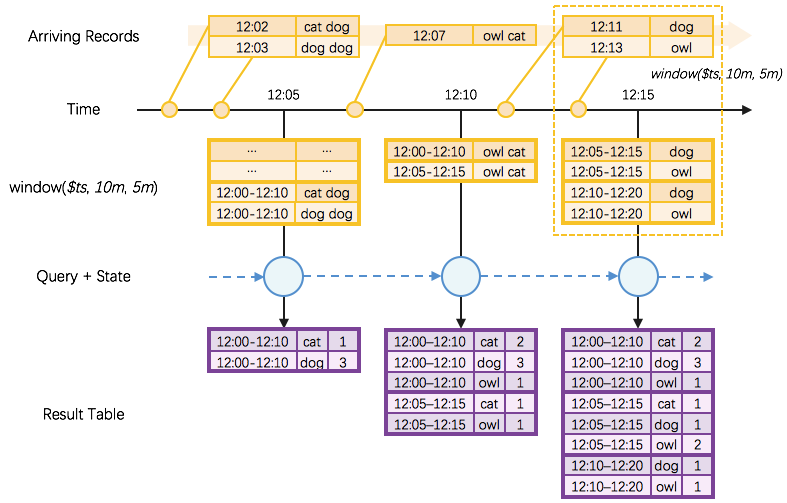
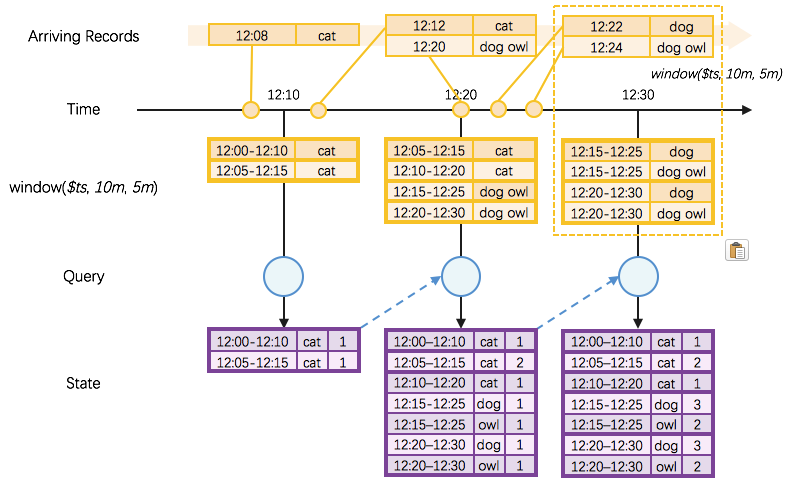
增加 Update 解析

diff --git a/Structured Streaming 源码解析系列/4.1 Structured Streaming 之 Event Time 解析.md b/Structured Streaming 源码解析系列/4.1 Structured Streaming 之 Event Time 解析.md
@@ -38,7 +38,7 @@ val windowedCounts = words.groupBy(
 
 - 我们有一系列 arriving 的 records
 - 首先是一个对着时间列 `timestamp` 做长度为`10m`，滑动为`5m` 的 *window()* 操作
-  - 例如下图右上角的虚框部分，当达到一条记录 `12:11|dog` 时，会将 `12:11` 归入两个窗口 `12:05-12:15`、`12:10-12:20`，所以产生两条记录：`12:05-12:15|dog`、`12:10-12:20|dog`，对于记录 `12:13|owl` 同理产生两条记录：`12:05-12:15|owl`、`12:10-12:20|owl`
+  - 例如上图右上角的虚框部分，当达到一条记录 `12:22|dog` 时，会将 `12:22` 归入两个窗口 `12:15-12:25`、`12:20-12:30`，所以产生两条记录：`12:15-12:25|dog`、`12:20-12:30|dog`，对于记录 `12:24|dog owl` 同理产生两条记录：`12:15-12:25|dog owl`、`12:20-12:30|dog owl`
   - 所以这里 *window()* 操作的本质是 *explode()*，可由一条数据产生多条数据
 - 然后对 *window()* 操作的结果，以 `window` 列和 `word` 列为 key，做 *groupBy().count()* 操作
   - 这个操作的聚合过程是增量的（借助 StateStore）
@@ -78,11 +78,19 @@ Append 的语义将保证，一旦输出了某条 key，未来就不会再输出
 
 #### (c) Update
 
-//TODO: Update this section as soon as `update` mode is officially released
+> 小节注：本节 Update 模式的相关内容适用于 ≥ Spark 2.1.1 版本 —— 官方已开发完成，但尚未正式发布
+
+<p align="center"><img src="4.imgs/230.png"></p>
+
+如上图所示，在 Update 模式中，只有本执行批次 State 中被更新了的条目会被输出：
+
+- 在 12:10 这个执行批次，State 中全部 2 条都是新增的（因而也都是被更新了的），所以输出全部 2 条；
+- 在 12:20 这个执行批次，State 中 2 条是被更新了的、 4 条都是新增的（因而也都是被更新了的），所以输出全部 6 条；
+- 在 12:30 这个执行批次，State 中 4 条是被更新了的，所以输出 4 条。这些需要特别注意的一点是，如 Append 模式一样，本执行批次中由于（通过  watermark 机制）确认 `12:00-12:10` 这个 window 不会再被更新，因而将其从 State 中去除，但没有因此产生输出。
 
 ## 总结
 
-本文解析了 Structured Streaming 原生提供的对 event time 的支持，包括 window()、groupBy() 增量聚合、对 late date 的支持、以及在 Complete, Append 模式下的输出结果。
+本文解析了 Structured Streaming 原生提供的对 event time 的支持，包括 window()、groupBy() 增量聚合、对 late date 的支持、以及在 Complete, Append, Update 模式下的输出结果。
 
 ## 扩展阅读
 
